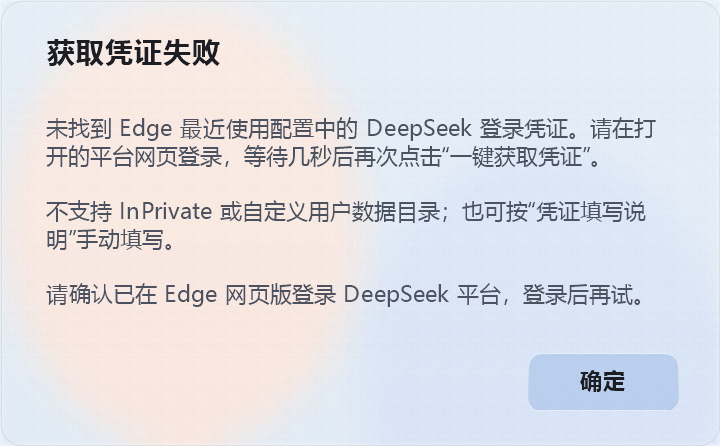
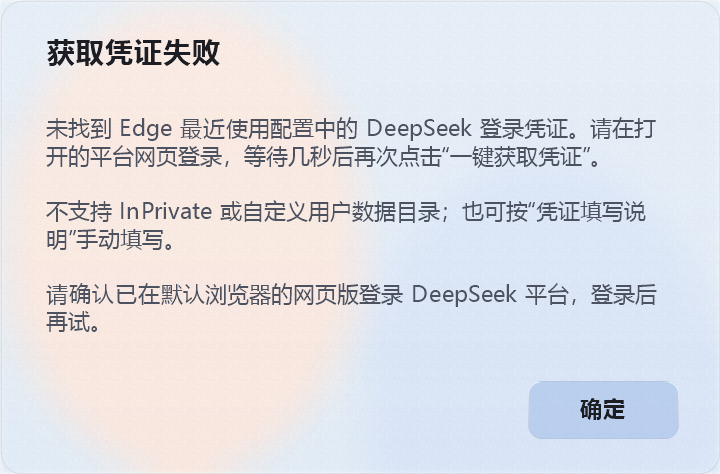
Add Chrome support and follow the default browser in 0.3.6

diff --git a/native/platform_login.cpp b/native/platform_login.cpp
@@ -1,6 +1,36 @@
 #include "app.hpp"
+#include <shlwapi.h>
 
 namespace quota {
+BrowserKind platformBrowserKind(const fs::path &executable) {
+    auto filename = executable.filename().wstring();
+    std::transform(filename.begin(), filename.end(), filename.begin(), [](wchar_t c) { return wchar_t(towlower(c)); });
+    if (filename == L"msedge.exe") return BrowserKind::Edge;
+    if (filename == L"chrome.exe") return BrowserKind::Chrome;
+    return BrowserKind::Unsupported;
+}
+PlatformBrowser defaultPlatformBrowser() {
+    wchar_t executable[32768]{};
+    DWORD count = DWORD(std::size(executable));
+    PlatformBrowser browser;
+    if (FAILED(AssocQueryStringW(ASSOCF_IS_PROTOCOL, ASSOCSTR_EXECUTABLE, L"https", L"open", executable, &count)))
+        return browser;
+    browser.executable = executable;
+    browser.kind = platformBrowserKind(browser.executable);
+    browser.name = browser.kind == BrowserKind::Chrome ? L"Chrome" : browser.kind == BrowserKind::Edge ? L"Edge" : L"默认浏览器";
+    if (browser.kind != BrowserKind::Unsupported) {
+        auto local = edgeUserData().parent_path().parent_path().parent_path();
+        browser.userData = browser.kind == BrowserKind::Chrome ? local / L"Google" / L"Chrome" / L"User Data" : edgeUserData();
+    }
+    return browser;
+}
+bool openBrowserPlatform(HWND owner, const PlatformBrowser &browser, const std::string &profile) {
+    if (browser.kind == BrowserKind::Unsupported)
+        return INT_PTR(ShellExecuteW(owner, L"open", L"https://platform.deepseek.com/usage", nullptr, nullptr, SW_SHOWNORMAL)) > 32;
+    auto args = profile.empty() ? L"https://platform.deepseek.com/usage" :
+        L"--profile-directory=" + quote(wide(profile)) + L" https://platform.deepseek.com/usage";
+    return INT_PTR(ShellExecuteW(owner, L"open", browser.executable.c_str(), args.c_str(), nullptr, SW_SHOWNORMAL)) > 32;
+}
 fs::path edgeUserData() {
     PWSTR local = nullptr;
     if (FAILED(SHGetKnownFolderPath(FOLDERID_LocalAppData, 0, nullptr, &local)))
@@ -14,6 +44,10 @@ bool openEdgePlatform(HWND owner, const std::string &profile) {
 }
 PlatformTokenResult acquireEdgePlatformToken(const fs::path &userData, const std::string &profile,
                                            std::atomic<bool> &stop) {
+    return acquireBrowserPlatformToken(userData, profile, stop, L"Edge");
+}
+PlatformTokenResult acquireBrowserPlatformToken(const fs::path &userData, const std::string &profile,
+                                              std::atomic<bool> &stop, const std::wstring &browserName) {
     PlatformTokenResult result;
     try {
         auto storage = userData / wide(profile) / L"Local Storage";
@@ -29,13 +63,13 @@ PlatformTokenResult acquireEdgePlatformToken(const fs::path &userData, const std
         auto token = readBrowserPlatformToken(storage / L"leveldb", stop);
         if (stop) return {};
         if (token.empty()) {
-            result.error = L"未找到 Edge 最近使用配置中的 DeepSeek 登录凭证。请在打开的平台网页登录，等待几秒后再次点击“一键获取凭证”。\n\n不支持 InPrivate 或自定义用户数据目录；也可按“凭证填写说明”手动填写。";
+            result.error = L"未找到 " + browserName + L" 最近使用配置中的 DeepSeek 登录凭证。请在平台网页登录，等待几秒后再次获取。无痕窗口或自定义数据目录暂不支持，也可手动填写。";
         } else {
             result.error = validateDeepSeekCredential(token, stop);
             if (result.error.empty() && !stop) result.token = std::move(token);
         }
     } catch (const std::exception &) {
-        result.error = L"无法读取 Edge 本地存储：文件正在变化、权限受限或格式暂不支持。请稍后重试，或按“凭证填写说明”手动填写。";
+        result.error = L"无法读取 " + browserName + L" 本地存储：文件正在变化、权限受限或格式暂不支持。请稍后重试，或按“凭证填写说明”手动填写。";
     }
     return result;
 }
@@ -50,22 +84,29 @@ void SettingsWindow::startPlatformToken() {
     tokenInputAtStart = std::move(text);
     auto probe = tokenProbe;
     if (!probe) {
+        PlatformBrowser browser;
         try {
-            auto userData = edgeUserData();
-            auto profile = edgeProfileName(userData);
-            if (!openEdgePlatform(window, profile)) {
-                openTokenFailure(L"获取凭证失败", L"无法打开 Microsoft Edge，请确认 Edge 已安装，或手动填写平台凭证。");
+            browser = defaultPlatformBrowser();
+            if (browser.kind == BrowserKind::Unsupported) {
+                openBrowserPlatform(window, browser, {});
+                openTokenFailure(L"自动获取暂不可用", L"已使用默认浏览器打开平台。自动获取目前支持 Microsoft Edge 和 Google Chrome，请将其中一个设为默认浏览器，或手动填写凭证。");
                 return;
             }
-            probe = [userData, profile](std::atomic<bool> &stop) { return acquireEdgePlatformToken(userData, profile, stop); };
+            auto userData = browser.userData;
+            auto profile = browserProfileName(userData);
+            if (!openBrowserPlatform(window, browser, profile)) {
+                openTokenFailure(L"获取凭证失败", L"无法打开默认浏览器，请确认浏览器已安装，或手动填写平台凭证。");
+                return;
+            }
+            probe = [userData, profile, browser](std::atomic<bool> &stop) { return acquireBrowserPlatformToken(userData, profile, stop, browser.name); };
         } catch (const std::exception &) {
-            ShellExecuteW(window, L"open", L"msedge.exe", L"https://platform.deepseek.com/usage", nullptr, SW_SHOWNORMAL);
-            openTokenFailure(L"请先登录 DeepSeek", L"未能确定 Edge 最近使用的用户配置。请在 Edge 中登录 DeepSeek 平台，等待几秒后重试；也可手动填写凭证。");
+            openBrowserPlatform(window, browser, {});
+            openTokenFailure(L"请先登录 DeepSeek", L"未能确定默认浏览器最近使用的用户配置。请在平台网页登录，等待几秒后重试；也可手动填写凭证。");
             return;
         }
     }
     EnableWindow(GetDlgItem(content, PlatformLoginButton), FALSE);
-    tokenStatus = L"正在读取并验证 Edge 登录凭证…";
+    tokenStatus = L"正在读取并验证浏览器登录凭证…";
     InvalidateRect(content, nullptr, FALSE);
     // The UI timer consumes results; destruction cancels and joins the worker.
     try {

diff --git a/scripts/github-release.py b/scripts/github-release.py
@@ -1,6 +1,6 @@
 """Publish a frozen tag and assets via existing Git credential helper; never logs credentials.
 
-Usage: python scripts/github-release.py v0.3.5 <commit> <setup> <zip> <sha256-file>
+Usage: python scripts/github-release.py v0.3.6 <commit> <setup> <zip> <sha256-file>
 The tag must already exist on origin. Does not overwrite a published release.
 """
 import json
@@ -16,7 +16,7 @@ REPO = "SaturdayF/codex-quota-bar"
 
 def main():
     tag, commit, *paths = sys.argv[1:]
-    if tag != "v0.3.5":
+    if tag not in {"v0.3.5", "v0.3.6"}:
         raise RuntimeError("Only the current native version can be published")
     env = dict(os.environ, GIT_TERMINAL_PROMPT="0", GCM_INTERACTIVE="never")
     credential = subprocess.run(["git", "-c", f"safe.directory={ROOT.as_posix()}", "credential", "fill"],
@@ -34,23 +34,23 @@ def main():
         with request.urlopen(request.Request(url, data=body, headers=headers, method=method), timeout=180) as response:
             payload = response.read()
             return json.loads(payload) if payload else None
-    if tag == "v0.3.5":
+    if tag in {"v0.3.5", "v0.3.6"}:
         tagged = api(f"/repos/{REPO}/git/ref/tags/{tag}")["object"]
         while tagged["type"] == "tag":
             tagged = api(f"/repos/{REPO}/git/tags/{tagged['sha']}")["object"]
         if tagged["type"] != "commit" or tagged["sha"] != commit:
             raise RuntimeError("Release tag does not point to the expected source commit")
-        allowed = {"CodexQuotaBar-v0.3.5-Setup.exe", "CodexQuotaBar-v0.3.5-Portable-win-x64.zip", "SHA256SUMS.txt"}
+        allowed = {f"CodexQuotaBar-{tag}-Setup.exe", f"CodexQuotaBar-{tag}-Portable-win-x64.zip", "SHA256SUMS.txt"}
         if {Path(path).name for path in paths} != allowed:
             raise RuntimeError("Native release requires exact installer, ZIP and checksum asset set")
-        body = (ROOT / "docs/releases/v0.3.5.md").read_text(encoding="utf-8").replace("{SOURCE_COMMIT}", commit)
+        body = (ROOT / f"docs/releases/{tag}.md").read_text(encoding="utf-8").replace("{SOURCE_COMMIT}", commit)
         try:
             release = api(f"/repos/{REPO}/releases/tags/{tag}")
         except error.HTTPError as exc:
             if exc.code != 404:
                 raise
             release = api(f"/repos/{REPO}/releases", {"tag_name": tag, "target_commitish": commit,
-                "name": "Codex Quota Bar 0.3.5 · Native", "body": body, "draft": True, "prerelease": False})
+                "name": f"Codex Quota Bar {tag[1:]} · Native", "body": body, "draft": True, "prerelease": False})
         if release["target_commitish"] != commit:
             raise RuntimeError("Native release commit does not match")
         expected = {}

diff --git a/native/browser_token.cpp b/native/browser_token.cpp
@@ -289,7 +289,7 @@ std::string readBrowserPlatformToken(const fs::path &database, std::atomic<bool>
     return {};
 }
 
-std::string edgeProfileName(const fs::path &userData) {
+std::string browserProfileName(const fs::path &userData) {
     size_t budget = Limit;
     auto state = json::parse(readShared(userData / L"Local State", budget), nullptr, false);
     require(state.is_object() && state.contains("profile") && state["profile"].is_object());
@@ -310,6 +310,13 @@ int browserTokenTests(std::ostream &log) {
     auto rejects = [](const std::function<void()> &call) {
         try { call(); return false; } catch (...) { return true; }
     };
+    check(platformBrowserKind(L"C:/Program Files/Google/Chrome/Application/CHROME.EXE") == BrowserKind::Chrome,
+          "default browser selection recognizes Google Chrome case-insensitively");
+    check(platformBrowserKind(L"C:/Program Files/Microsoft/Edge/Application/msedge.exe") == BrowserKind::Edge,
+          "default browser selection recognizes Microsoft Edge");
+    check(platformBrowserKind(L"C:/Browsers/firefox.exe") == BrowserKind::Unsupported &&
+              platformBrowserKind(L"C:/Browsers/notchrome.exe") == BrowserKind::Unsupported,
+          "unsupported default browsers never fall back to another browser's credentials");
     // Independent known CRC32C check vector (unmasked 0xe3069283).
     uint32_t known = 0xe3069283u;
     check(crc("123456789") == ((known >> 15) | (known << 17)) + 0xa282ead8u,
@@ -412,9 +419,9 @@ int browserTokenTests(std::ostream &log) {
     write(L"000002.log", writeBatch(1, {{"VERSION", "1"}, {key, std::string(1, '\1') + "sk-test"}}));
     check(rejects([&] { readBrowserPlatformToken(fixture, stop); }), "browser acquisition rejects API keys");
     write(L"Local State", "{\"profile\":{\"last_used\":\"Profile 2\"}}");
-    check(edgeProfileName(fixture) == "Profile 2", "Edge acquisition uses the last-used profile without scanning other accounts");
+    check(browserProfileName(fixture) == "Profile 2", "Edge acquisition uses the last-used profile without scanning other accounts");
     write(L"Local State", "{\"profile\":{\"last_used\":\"../outside\"}}");
-    check(rejects([&] { edgeProfileName(fixture); }), "Edge profile paths reject directory traversal");
+    check(rejects([&] { browserProfileName(fixture); }), "Edge profile paths reject directory traversal");
     stop = true;
     check(readBrowserPlatformToken(fixture, stop).empty(), "cancelled browser acquisition returns no credential");
     return checks;

diff --git a/native/main.cpp b/native/main.cpp
@@ -59,16 +59,19 @@ int WINAPI wWinMain(HINSTANCE, HINSTANCE, PWSTR, int) {
         }
         else if (has(L"--render-ui"))
             renderPreviews(after(L"--render-ui", L"native-previews"));
-        else if (has(L"--edge-token-probe")) {
+        else if (has(L"--edge-token-probe") || has(L"--browser-token-probe")) {
             // Status only: never persist or print browser credentials.
             std::atomic<bool> cancel{false};
             json report;
             try {
-                auto root = edgeUserData();
-                auto profile = edgeProfileName(root);
-                auto acquired = acquireEdgePlatformToken(root, profile, cancel);
-                report = {{"profileAvailable", true}, {"validated", !acquired.token.empty()}, {"error", utf8(acquired.error)}};
-            } catch (...) { report = {{"profileAvailable", false}, {"validated", false}, {"error", "Edge profile unavailable"}}; }
+                auto browser = defaultPlatformBrowser();
+                bool edgeOnly = has(L"--edge-token-probe");
+                if (!edgeOnly && browser.kind == BrowserKind::Unsupported) throw std::runtime_error("Unsupported browser");
+                auto root = edgeOnly ? edgeUserData() : browser.userData;
+                auto profile = browserProfileName(root);
+                auto acquired = acquireBrowserPlatformToken(root, profile, cancel, edgeOnly ? L"Edge" : browser.name);
+                report = {{"browser", utf8(edgeOnly ? L"Edge" : browser.name)}, {"profileAvailable", true}, {"validated", !acquired.token.empty()}, {"error", utf8(acquired.error)}};
+            } catch (...) { report = {{"profileAvailable", false}, {"validated", false}, {"error", "Browser profile unavailable or unsupported"}}; }
             std::ofstream out(after(L"--output", L"edge-token-probe.json"));
             out << report.dump(2);
             result = report["validated"].get<bool>() ? 0 : 1;

diff --git a/native/settings.cpp b/native/settings.cpp
@@ -1143,7 +1143,7 @@ SIZE SettingsWindow::helpSize() const {
     return {px(width), px(std::max(188.f, std::ceil(bounds.Height) + 166.f))};
 }
 void SettingsWindow::openTokenFailure(const std::wstring &title, const std::wstring &message) {
-    openHelp(title, message + L"\n\n请确认已在 Edge 网页版登录 DeepSeek 平台，登录后再试。");
+    openHelp(title, message + L"\n\n请确认已在默认浏览器的网页版登录 DeepSeek 平台，登录后再试。");
 }
 void SettingsWindow::openHelp(const std::wstring &title, const std::wstring &message) {
     closeHelp();
@@ -1201,7 +1201,7 @@ void SettingsWindow::renderHelp(Surface &image) {
         g.DrawString(helpMessage.c_str(), -1, &body, RectF(28, 76, width - 56, height - 158), &format, &ink);
     } else {
     const wchar_t *lines[] = {
-        L"1. 点击“一键获取凭证”，将在 Edge 打开平台网页。",
+        L"1. 点击“一键获取凭证”，用默认浏览器打开平台。",
         L"2. 已登录时自动读取凭证；未登录请先登录，",
         L"   等待几秒后再次获取，成功后自动返回并保存。",
         L"",
@@ -1209,7 +1209,7 @@ void SettingsWindow::renderHelp(Surface &image) {
         L"在 Application → Local Storage 中找到 userToken，",
         L"复制令牌或含 value 的 JSON 粘贴到“平台登录凭证”。",
         L"",
-        L"读取 Edge 最近使用的配置；不支持 InPrivate 登录。",
+        L"支持 Edge / Chrome 普通配置，不支持无痕窗口。",
     };
     float y = 62;
     for (auto line : lines) {

diff --git a/native/browser_token.hpp b/native/browser_token.hpp
@@ -3,17 +3,28 @@
 
 namespace quota {
 constexpr int PlatformLoginButton = 270;
+enum class BrowserKind { Unsupported, Edge, Chrome };
+BrowserKind platformBrowserKind(const fs::path &executable);
+struct PlatformBrowser {
+    BrowserKind kind = BrowserKind::Unsupported;
+    fs::path executable, userData;
+    std::wstring name;
+};
+PlatformBrowser defaultPlatformBrowser();
 // Read-only Chromium Local Storage support. No browser database is opened for
 // writing, copied to disk, recovered, or locked by this reader.
 std::string readBrowserPlatformToken(const fs::path &database, std::atomic<bool> &stop);
-std::string edgeProfileName(const fs::path &userData);
+std::string browserProfileName(const fs::path &userData);
 fs::path edgeUserData();
 bool openEdgePlatform(HWND owner, const std::string &profile);
+bool openBrowserPlatform(HWND owner, const PlatformBrowser &browser, const std::string &profile);
 struct PlatformTokenResult {
     std::string token;
     std::wstring error;
 };
 PlatformTokenResult acquireEdgePlatformToken(const fs::path &userData, const std::string &profile,
                                            std::atomic<bool> &stop);
+PlatformTokenResult acquireBrowserPlatformToken(const fs::path &userData, const std::string &profile,
+                                               std::atomic<bool> &stop, const std::wstring &browserName);
 int browserTokenTests(std::ostream &log);
 } // namespace quota

diff --git a/native/deepseek.cpp b/native/deepseek.cpp
@@ -250,7 +250,7 @@ static json get(const std::wstring &host, const std::wstring &path, const std::s
     if (host != L"platform.deepseek.com")
         throw std::runtime_error("Invalid DeepSeek host");
     if (!validDeepSeekCredential(token)) throw std::runtime_error("Invalid DeepSeek credential");
-    InternetHandle session(WinHttpOpen(L"CodexQuotaBar/0.3.5", WINHTTP_ACCESS_TYPE_AUTOMATIC_PROXY,
+    InternetHandle session(WinHttpOpen(L"CodexQuotaBar/0.3.6", WINHTTP_ACCESS_TYPE_AUTOMATIC_PROXY,
                                       WINHTTP_NO_PROXY_NAME, WINHTTP_NO_PROXY_BYPASS, 0));
     if (!WinHttpSetTimeouts(session.value, 3000, 3000, 3000, 5000)) throw std::runtime_error("DeepSeek network error");
     InternetHandle connection(WinHttpConnect(session.value, host.c_str(), INTERNET_DEFAULT_HTTPS_PORT, 0));
@@ -311,7 +311,7 @@ std::wstring validateDeepSeekCredential(const std::string &token, std::atomic<bo
         return stop ? L"已取消获取" : L"";
     } catch (const std::exception &e) {
         if (std::string(e.what()) == "DeepSeek session expired")
-            return L"Edge 中的 DeepSeek 登录已失效，请在打开的平台网页登录，等待几秒后再次点击“一键获取凭证”。";
+            return L"浏览器中的 DeepSeek 登录已失效，请在打开的平台网页登录，等待几秒后再次点击“一键获取凭证”。";
         return failure(e);
     }
 }

diff --git a/native/core.hpp b/native/core.hpp
@@ -33,8 +33,8 @@ namespace quota {
 using json = nlohmann::json;
 namespace fs = std::filesystem;
 using namespace Gdiplus;
-constexpr wchar_t Version[] = L"0.3.5";
-constexpr char VersionUtf8[] = "0.3.5";
+constexpr wchar_t Version[] = L"0.3.6";
+constexpr char VersionUtf8[] = "0.3.6";
 constexpr UINT StateMessage = WM_APP + 1, SettingsMessage = WM_APP + 2, RebuildMessage = WM_APP + 3;
 constexpr UINT DeepSeekMessage = WM_APP + 5;
 constexpr UINT TaskbarMessage = WM_APP + 6;

diff --git a/scripts/package-native.py b/scripts/package-native.py
@@ -6,7 +6,7 @@ import zipfile
 import sys
 
 ROOT = Path(__file__).resolve().parent.parent
-VERSION = "0.3.5"
+VERSION = "0.3.6"
 payload = Path(sys.argv[1]).resolve() if len(sys.argv) > 1 else ROOT / "artifacts/native-win-x64"
 if json.loads((payload / "version.json").read_text(encoding="utf-8-sig")).get("version") != VERSION:
     raise RuntimeError("Native runtime version does not match package version")

diff --git a/README.md b/README.md
@@ -4,11 +4,11 @@
 
 在 Windows 任务栏显示 Codex 额度和 DeepSeek 账户余额，支持多屏、拖动布局、悬浮详情和自动刷新。
 
-**最新发布：[0.3.5](https://github.com/SaturdayF/codex-quota-bar/releases/tag/v0.3.5)** · Windows 10/11 x64 · C++ 原生程序
+**最新发布：[0.3.6](https://github.com/SaturdayF/codex-quota-bar/releases/tag/v0.3.6)** · Windows 10/11 x64 · C++ 原生程序
 
 **稳定版：[0.3.5](https://github.com/SaturdayF/codex-quota-bar/releases/tag/v0.3.5)**
 
-[安装包](https://github.com/SaturdayF/codex-quota-bar/releases/download/v0.3.5/CodexQuotaBar-v0.3.5-Setup.exe) · [便携包](https://github.com/SaturdayF/codex-quota-bar/releases/download/v0.3.5/CodexQuotaBar-v0.3.5-Portable-win-x64.zip) · [SHA-256 校验](https://github.com/SaturdayF/codex-quota-bar/releases/download/v0.3.5/SHA256SUMS.txt) · [版本记录](CHANGELOG.md)
+[安装包](https://github.com/SaturdayF/codex-quota-bar/releases/download/v0.3.6/CodexQuotaBar-v0.3.6-Setup.exe) · [便携包](https://github.com/SaturdayF/codex-quota-bar/releases/download/v0.3.6/CodexQuotaBar-v0.3.6-Portable-win-x64.zip) · [SHA-256 校验](https://github.com/SaturdayF/codex-quota-bar/releases/download/v0.3.6/SHA256SUMS.txt) · [版本记录](CHANGELOG.md)
 
 ## 界面预览
 
@@ -37,13 +37,13 @@
 显示账户余额和北京时间当日消费，悬浮查看模型费用、请求数及 Token 明细。组件可随 Harness 启停，也可独立常驻；DSH 标识可单独隐藏，组件宽度随内容缩短。
 
 <img src="docs/deepseek-widget-preview.png" alt="DeepSeek 余额与当日消费组件" />
-<img src="docs/deepseek-settings-preview.png" width="900" alt="0.3.5 DeepSeek 相关设置：自动跟随、独立显示、DSH 图标和平台凭证" />
-<img src="docs/deepseek-details-preview.png" width="450" alt="0.3.5 DeepSeek 模型用量详情：含当日每小时消耗柱状图" />
-<img src="docs/deepseek-help-preview.png" width="450" alt="0.3.5 DeepSeek 凭证填写说明毛玻璃弹窗" />
-<img src="docs/deepseek-token-success-preview.png" width="400" alt="0.3.5 获取 Token 成功并自动保存的紧凑弹窗" />
-<img src="docs/deepseek-token-error-preview.png" width="480" alt="0.3.5 获取失败弹窗：按内容调整高度并提醒检查网页登录" />
+<img src="docs/deepseek-settings-preview.png" width="900" alt="0.3.6 DeepSeek 相关设置：自动跟随、独立显示、DSH 图标和平台凭证" />
+<img src="docs/deepseek-details-preview.png" width="450" alt="0.3.6 DeepSeek 模型用量详情：含当日每小时消耗柱状图" />
+<img src="docs/deepseek-help-preview.png" width="450" alt="0.3.6 DeepSeek 凭证填写说明毛玻璃弹窗" />
+<img src="docs/deepseek-token-success-preview.png" width="400" alt="0.3.6 获取 Token 成功并自动保存的紧凑弹窗" />
+<img src="docs/deepseek-token-error-preview.png" width="480" alt="0.3.6 获取失败弹窗：按内容调整高度并提醒检查网页登录" />
 
-以上图片由 0.3.5 程序生成，额度、余额、用量和预览背景均为模拟数据。运行时的毛玻璃背景由系统实时合成，实际效果随桌面内容与系统设置变化；省电模式下毛玻璃不可用。
+以上预览中的额度、余额、用量和背景均为模拟数据。运行时的毛玻璃背景由系统实时合成，实际效果随桌面内容与系统设置变化；省电模式下毛玻璃不可用。
 
 ## 功能
 
@@ -64,7 +64,7 @@
 
 1. 运行安装包选择安装目录，或完整解压便携包后运行 `CodexQuotaBar.exe`。无需额外安装 .NET 或 C++ 运行库。安装时可选添加桌面快捷方式。
 2. 使用 Codex 额度前，在本机 Codex CLI 中通过 ChatGPT 账户登录。自动识别失败时，在“高级”页指定 `codex.exe`。
-3. 使用 DeepSeek 时，在“DeepSeek 相关设置”页点击“一键获取凭证”，程序会用 Microsoft Edge 打开平台网页，并读取最近使用配置中的 `userToken`，验证有效后自动返回 DeepSeek 设置页并保存凭证。未登录时请在网页中登录，等待几秒后再次获取。成功后显示确认弹窗；失败提示会提醒检查网页版登录状态。提示弹窗随文字长度调整大小。无需安装浏览器扩展，也可按“凭证填写说明”手动填写并点击“保存更改”；无需填写 API Key。
+3. 使用 DeepSeek 时，在“DeepSeek 相关设置”页点击“一键获取凭证”，程序会按 Windows 默认浏览器设置打开平台网页（支持 Edge 和 Chrome），并读取最近使用配置中的 `userToken`，验证有效后自动返回 DeepSeek 设置页并保存凭证。未登录时请在网页中登录，等待几秒后再次获取。成功后显示确认弹窗；失败提示会提醒检查网页版登录状态。提示弹窗随文字长度调整大小。无需安装浏览器扩展，也可按“凭证填写说明”手动填写并点击“保存更改”；无需填写 API Key。
 4. 点击托盘图标或右键任务栏组件打开设置。托盘图标可能收纳在 Windows 的上箭头菜单中。设置完成后点击“保存更改”。
 
 额度属于 Codex CLI 当前登录账户。关闭应用窗口或最小化不等于退出进程；后台监听器会等待应用再次启动。
@@ -76,14 +76,14 @@
 | 外观 | 浅色/深色模式、任务栏样式、显示大小、额度配色、底色与 Codex 图标透明度、文字标记和动画 |
 | 常规 | 显示屏幕、登录启动、5 小时/周额度开关、恢复套餐默认、图标自动避让 |
 | 高级 | Codex CLI 路径、刷新间隔、立即刷新、退出、卸载和打开所在文件夹 |
-| DeepSeek 相关设置 | 自动跟随 Harness、未启动时显示余额、显示 DSH 图标、从 Edge 一键获取或手动粘贴平台凭证、刷新与清除凭证 |
+| DeepSeek 相关设置 | 自动跟随 Harness、未启动时显示余额、显示 DSH 图标、从 Edge / Chrome 一键获取或手动粘贴平台凭证、刷新与清除凭证 |
 
 - **拖动布局**：按住左键横向拖动，可越过任务栏原有图标。重叠达到另一组件面积的 50% 时，对方提前让位；松手确认交换，两个组件相邻摆放。重叠不足时松手贴靠，空间不足时寻找其他空位；无可用空间时暂时隐藏。位置在本次运行中保留。
 - **详情**：悬浮查看额度或账单；DeepSeek 模型较多时可用滚轮翻阅。
 - **DSH 图标**：默认显示。关闭仅隐藏标识，保留余额、当日消费和悬浮详情，组件自动缩短。
 - **DeepSeek 显示**：默认随 Harness 显示；“未启动时也显示余额”可独立开启。两个显示开关均关闭时停止显示和查询。
 - **凭证**：`userToken` 保存在 Windows 凭据管理器。一键获取成功后立即保存并刷新查询；其他设置仍需点击“保存更改”。输入留空保留已有值，“清除凭证”在保存后生效。
-- **自动获取范围**：支持 Edge 标准用户数据目录中的 LevelDB 本地存储；不支持 InPrivate、自定义用户数据目录或已迁移为 SQLite 的存储格式。读取受限时可手动填写，不会修改浏览器数据。获取时的网络失败会单独提示。
+- **自动获取范围**：支持默认 Edge / Chrome 标准用户数据目录中的 LevelDB 本地存储；不支持 InPrivate、自定义用户数据目录或已迁移为 SQLite 的存储格式。读取受限时可手动填写，不会修改浏览器数据。获取时的网络失败会单独提示。
 - **退出与卸载**：“高级”页提供对应入口。卸载保留程序目录中的无关文件；便携版卸载需要系统 PowerShell。
 
 完整操作说明见 [使用指南](native/USER_GUIDE.md)。
@@ -100,6 +100,6 @@ Windows 11 22H2 及以上使用 Desktop Acrylic，较早系统使用兼容模糊
 
 ## 开发
 
-0.3.5 已通过 469 项核心检查与 54 项 DeepSeek UI 检查。发布包附带 SHA-256 校验文件，已发布标签和附件保持固定。
+0.3.6 已通过 472 项核心检查与 54 项 DeepSeek UI 检查。发布包附带 SHA-256 校验文件，已发布标签和附件保持固定。
 
 [构建与测试](docs/DEVELOPMENT.md) · [安装器](installer/README.md) · [MIT 许可证](LICENSE)

diff --git a/native/USER_GUIDE.md b/native/USER_GUIDE.md
@@ -1,6 +1,6 @@
 # Codex Quota Bar 使用指南
 
-适用于 0.3.5，支持 Windows 10/11 x64。
+适用于 0.3.6，支持 Windows 10/11 x64。
 
 安装时可选“添加桌面快捷方式”，双击快捷方式打开设置。“高级 → 打开文件夹”可在资源管理器中打开正在运行的程序目录。“外观 → 底色不透明度”同时控制两个任务栏组件的背景，0% 为透明，滑块调整会更新设置预览。「Codex 图标不透明度」独立控制额度图形和数字，范围为 10% 到 100%。
 
@@ -35,13 +35,13 @@ Codex 额度需要本机 Codex CLI 已通过 ChatGPT 账户登录。可在“高
 
 ## DeepSeek 设置
 
-1. 在“DeepSeek 相关设置”页点击“一键获取凭证”，程序使用 Edge 最近使用的配置打开 DeepSeek 平台网页。
-2. 已登录时自动读取并验证 `userToken`，成功后自动返回 DeepSeek 设置页并保存凭证，显示“获取 Token 成功”弹窗。失败弹窗会提醒检查是否已在 Edge 网页版登录 DeepSeek 平台；登录后等待几秒再获取。弹窗高度随提示文字数量调整。
+1. 在“DeepSeek 相关设置”页点击“一键获取凭证”，程序使用 Windows 默认浏览器（Edge / Chrome）最近使用的配置打开 DeepSeek 平台网页。
+2. 已登录时自动读取并验证 `userToken`，成功后自动返回 DeepSeek 设置页并保存凭证，显示“获取 Token 成功”弹窗。失败弹窗会提醒检查是否已在 默认浏览器的网页版登录 DeepSeek 平台；登录后等待几秒再获取。弹窗高度随提示文字数量调整。
 3. 也可手动获取：在浏览器中登录后按 F12，在 Application → Local Storage 找到 `userToken`，复制并粘贴到“平台登录凭证”。
 
 凭证保存在 Windows 凭据管理器。一键获取成功后立即保存并刷新查询；其他设置和手动填写的凭证仍需点击“保存更改”。输入留空保留已有凭证；“清除凭证”在保存后生效。
 
-自动获取不需要安装浏览器扩展。当前支持 Edge 标准目录中的 LevelDB 本地存储，不支持 InPrivate、自定义用户数据目录或 SQLite 存储；权限或格式不兼容时请手动填写。程序仅以只读方式解析浏览器存储，不创建浏览器数据副本；读取结果只用于 DeepSeek 官方平台的验证与查询。
+自动获取不需要安装浏览器扩展。当前支持 Edge / Chrome 标准目录中的 LevelDB 本地存储，不支持 InPrivate、自定义用户数据目录或 SQLite 存储；权限或格式不兼容时请手动填写。程序仅以只读方式解析浏览器存储，不创建浏览器数据副本；读取结果只用于 DeepSeek 官方平台的验证与查询。
 
 默认随 Harness 桌面进程显示；“未启动时也显示余额”可独立开启。两个显示开关均关闭时停止显示和查询。刷新间隔可选 1 / 2 / 5 分钟，支持手动刷新。
 
